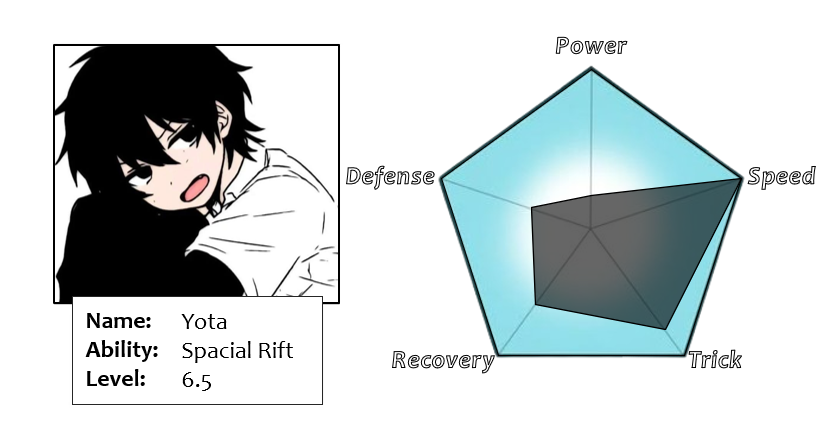
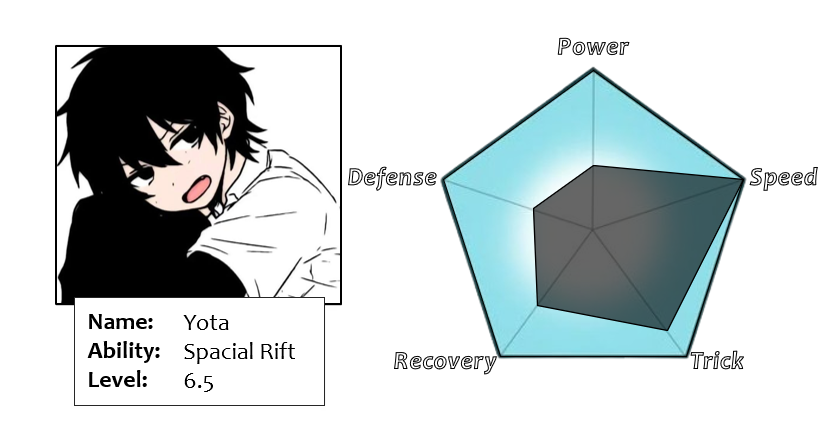
feat: update Yota's power stat from 2/10 to 4/10 and refresh graph image

diff --git a/index.html b/index.html
@@ -341,7 +341,7 @@
           <div class="stat-bar">
             <div class="stat-label">
               <span>Power</span>
-              <span>2/10</span>
+              <span>4/10</span>
             </div>
             <div class="bar-container">
               <div class="bar-fill" data-value="20"></div>
